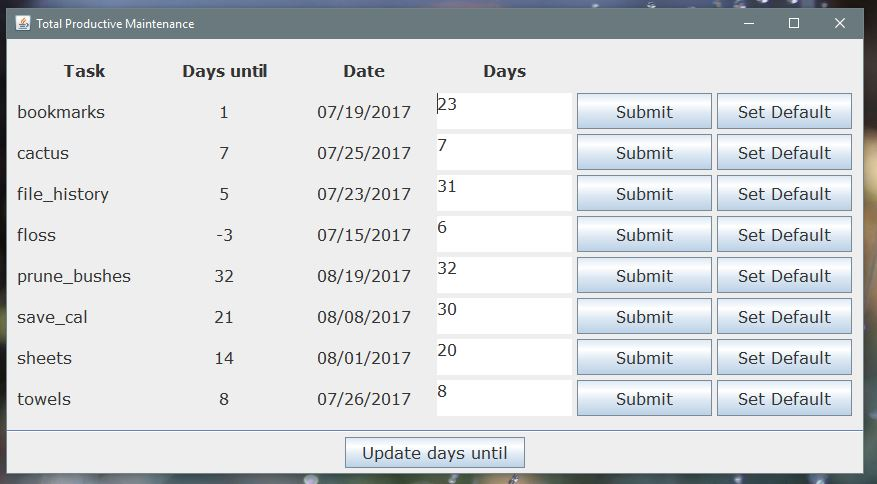
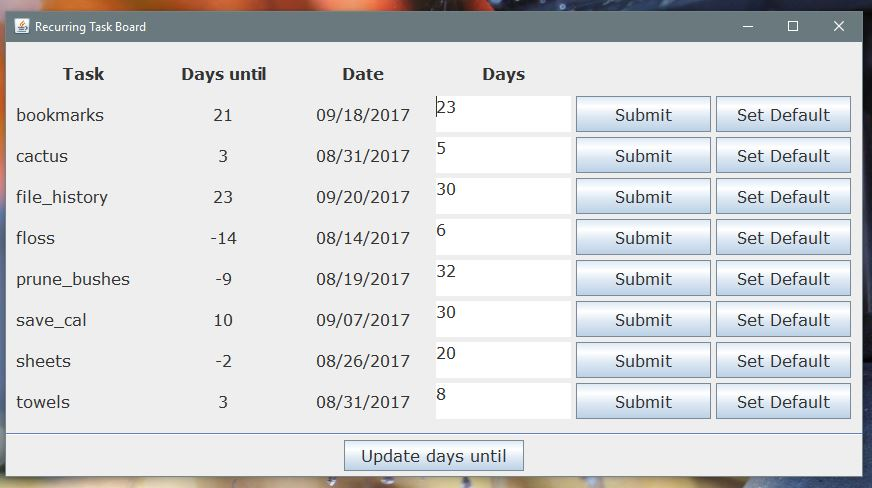
Renamed items from tpm to recurringtaskboard, updated README and preview-image

diff --git a/RTB.java b/RTB.java
@@ -32,7 +32,7 @@
  */
 
 
-package tpmboard;
+package recurringtaskboard;
 
 import java.awt.*;
 import java.awt.event.*;
@@ -47,14 +47,14 @@ import java.util.Date;
 import javax.swing.*;
 import javax.swing.border.EmptyBorder;
 
-public class TPM extends JFrame {
+public class RTB extends JFrame {
 
     // init variables
     private final Font BOLD_FONT = new Font("Verdana", Font.BOLD, 16);
     private final Font DEF_FONT = new Font("Verdana", Font.PLAIN, 16);
-    private final String FILENAME = "java-tpm-db.txt";
+    private final String FILENAME = "java-recurringtask-db.txt";
     private final String PACK_NAME = this.getClass().getPackage().getName();
-    private final String PRGM_NAME = "Total Productive Maintenance";
+    private final String PRGM_NAME = "Recurring Task Board";
     private final String USERNAME = System.getProperty("user.name");
     private final String[] HEADERS = {"Task", "Days until", "Date", "Days", "", ""};
     private final int MAX_GAP = 20;
@@ -84,7 +84,7 @@ public class TPM extends JFrame {
     private String[][] db;
     private List<String> lines = new ArrayList<String>();
     
-    public TPM() {
+    public RTB() {
         super();
     }
     
@@ -365,8 +365,8 @@ public class TPM extends JFrame {
         // create a thread for creating the GUI
         SwingUtilities.invokeLater(new Runnable() {
             public void run() {
-                TPM tpmController = new TPM();
-                tpmController.createAndShowGUI();
+                RTB rtbController = new RTB();
+                rtbController.createAndShowGUI();
             }
         });
     }

diff --git a/README.md b/README.md
@@ -1,13 +1,10 @@
-# tpmboard
-
-Total Productive Maintenance board
+# recurringtaskboard
+Recurring Task Board
 
 A GUI for tracking reoccurring tasks, originally written in Python for the console.
 
-The database file "java-tpm-db.txt" follows the format below:
+The database file "java-recurringtask-db.txt" follows the format below:
 
     name_of_item dateofnexttime dayinterval
     
 The name of the item must not contain spaces, as a space is the default delimiter for `java.util.Scanner`.
-
-Check out the preview image for more...
